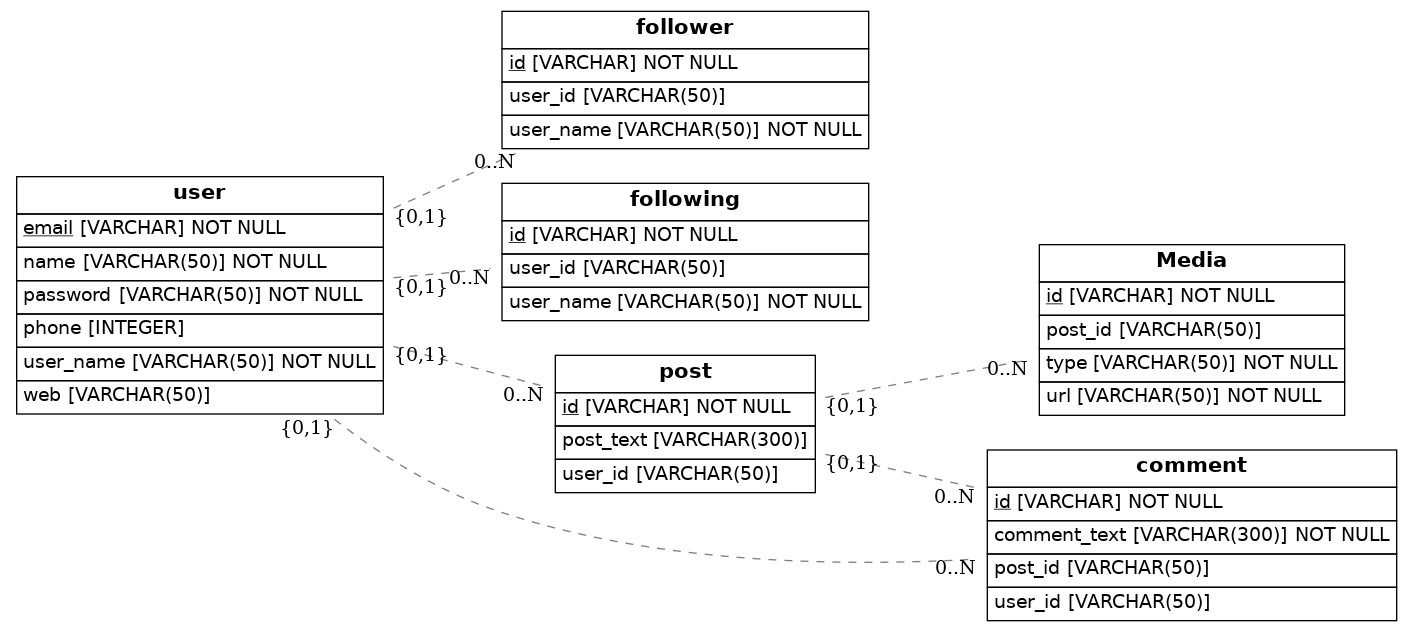
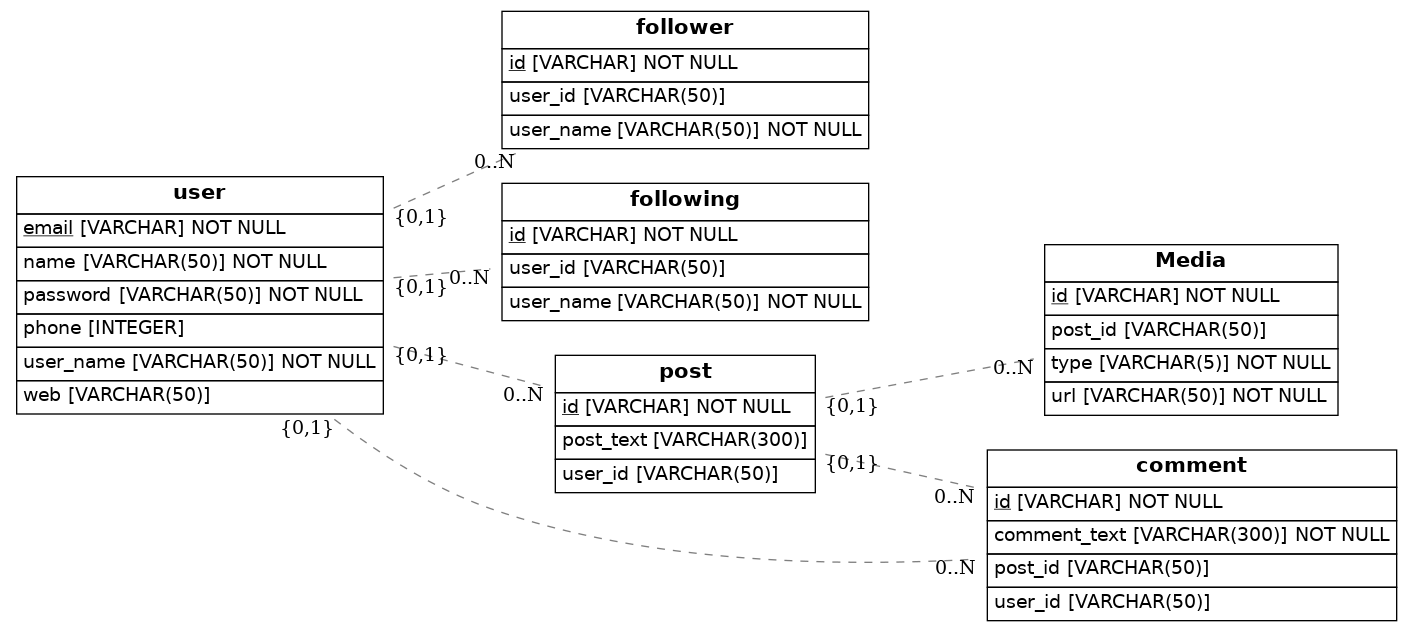
Actualización final con Enum

Changed region(s): [[0.6856, 0.4517, 0.966, 0.6624], [0.8102, 0.3914, 0.8725, 0.4216], [0.9348, 0.4818, 0.966, 0.5119]]

diff --git a/src/models.py b/src/models.py
@@ -1,12 +1,18 @@
 import os
 import sys
-from sqlalchemy import Column, ForeignKey, Integer, String
+import enum
+from sqlalchemy import Column, ForeignKey, Integer, String, Enum
 from sqlalchemy.ext.declarative import declarative_base
 from sqlalchemy.orm import relationship
 from sqlalchemy import create_engine
 from eralchemy2 import render_er
 
+
 Base = declarative_base()
+
+class Types(enum.Enum):
+    IMAGE = 'image'
+    VIDEO = 'video'
 
 class User(Base):
     __tablename__='user'
@@ -46,7 +52,7 @@ class Media(Base):
     __tablename__='Media'
     id = Column(String, primary_key=True)
     post_id = Column(String(50), ForeignKey('post.id'))
-    type = Column(String(50), nullable=False)
+    type = Column(Enum(Types), nullable=False)
     url = Column(String(50), nullable=False)
     
 class Comment(Base):
